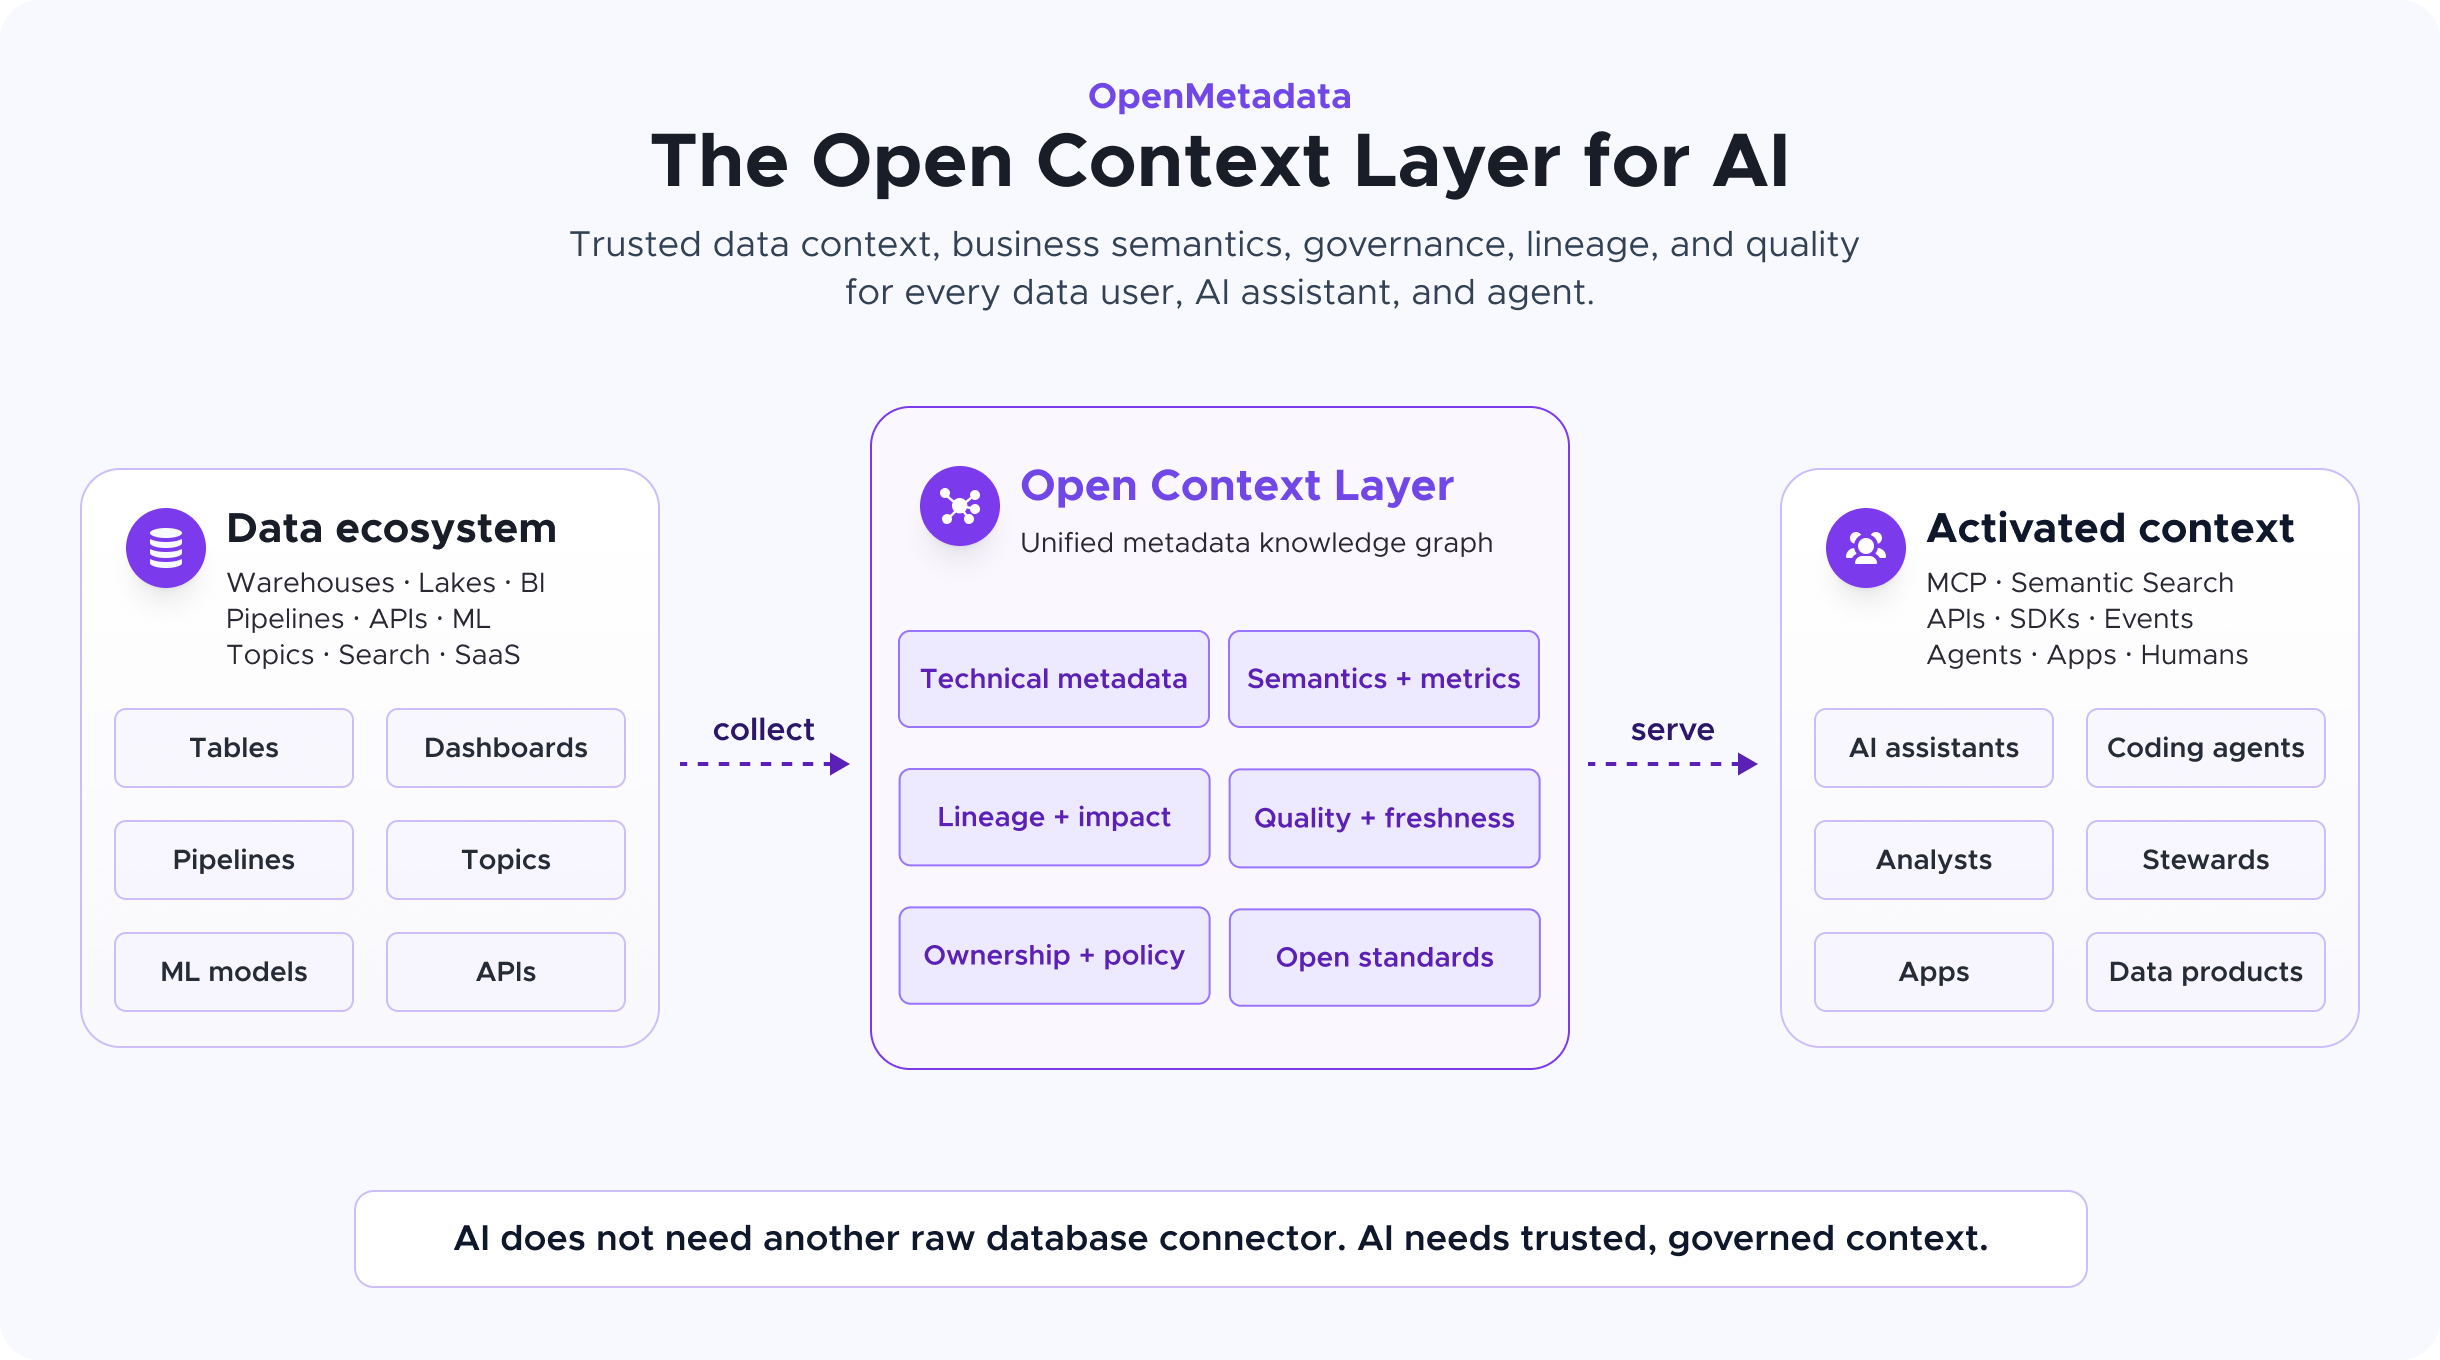
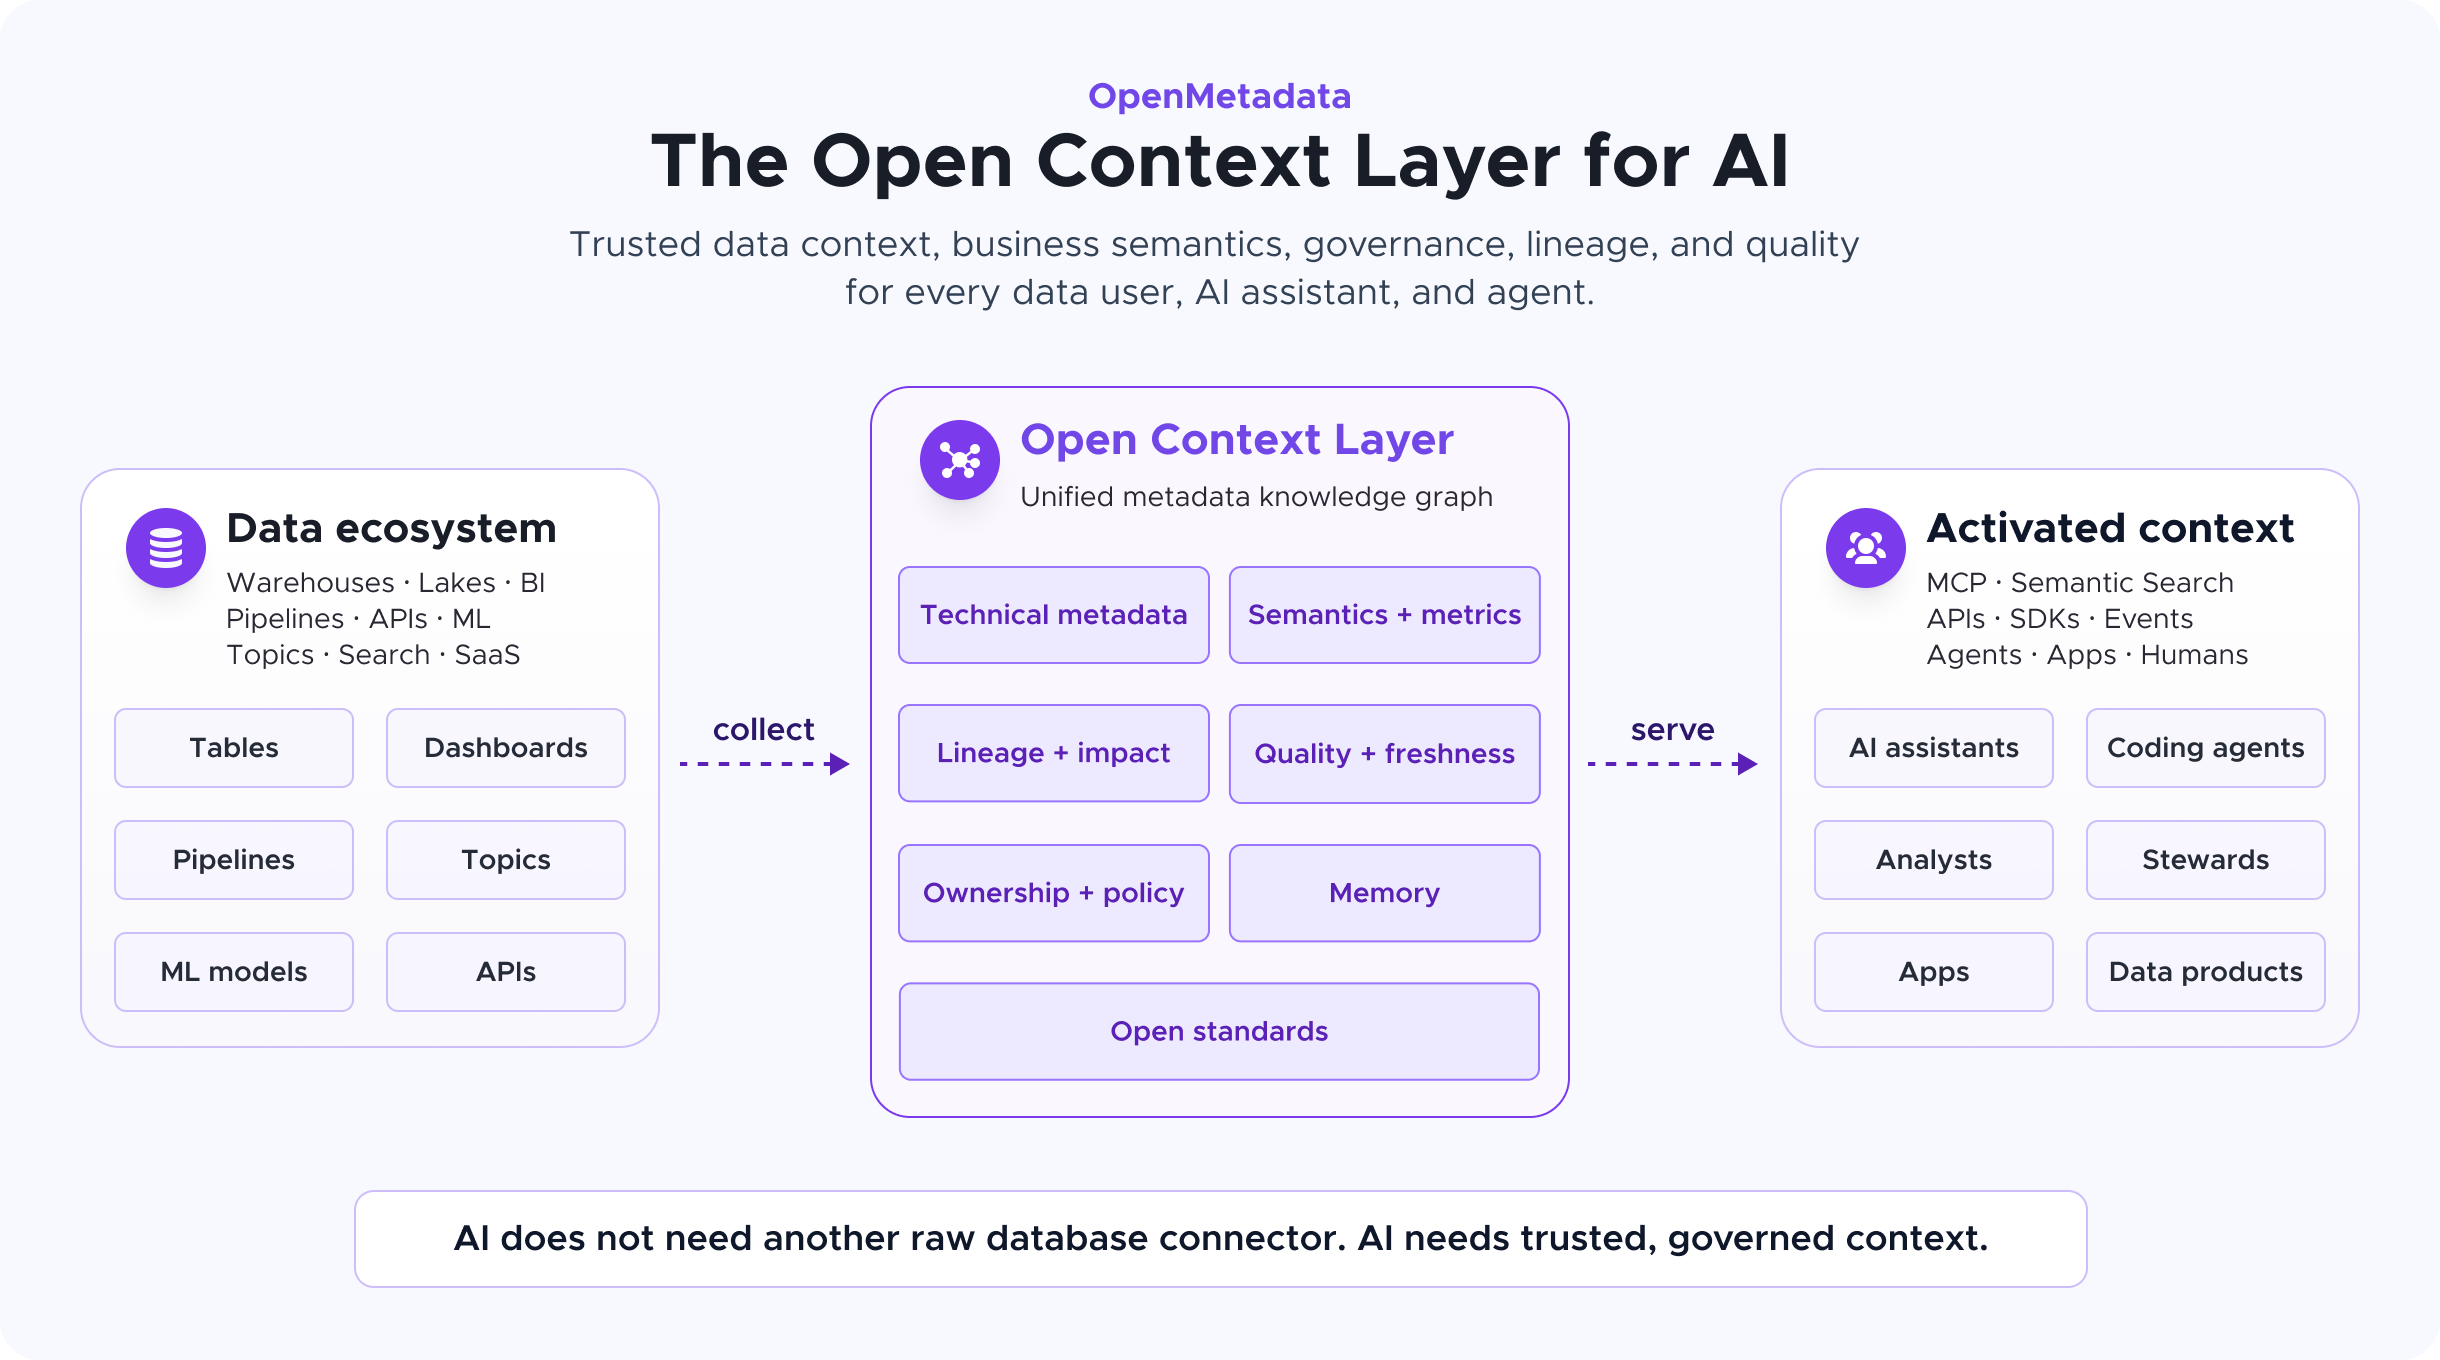
Address the feedback

Changed region(s): [[0.3738, 0.3088, 0.623, 0.8029]]

diff --git a/README.md b/README.md
@@ -4,15 +4,17 @@
 
 ## The Open Context Layer for AI
 
-OpenMetadata is the open platform for building trusted data context and business semantics for humans, AI assistants, and agents.
+**The largest and fastest-growing open-source project for AI context, data cataloging, and metadata management.**
 
-OpenMetadata connects technical metadata, data quality signals, lineage, column-level lineage, ownership, usage, policies, conversations, glossaries, classifications, metrics, domains, and data products into a unified metadata knowledge graph. With 120+ connectors, open metadata standards, semantic search, APIs, SDKs, and an MCP server, OpenMetadata gives every user and AI system the governed context it needs to discover, understand, trust, and use data.
+OpenMetadata is the open platform for trusted data context, organizational memory, and business semantics for every data user, AI assistant, and agent.
 
-**AI does not need another raw database connector. AI needs context.**
+OpenMetadata connects technical metadata, data quality signals, lineage, column-level lineage, ownership, usage, policies, conversations, memories, glossaries, classifications, metrics, domains, data contracts, and data products into a unified metadata knowledge graph. With **130+ connectors**, open metadata standards, semantic search, APIs, SDKs, and an MCP server, OpenMetadata gives every user and AI system the governed context it needs to discover, understand, trust, remember, and use data.
 
-![OpenMetadata: The Open Context Layer for AI](docs/assets/open-context-layer-hero.png)
+**AI does not need another raw database connector. AI needs context + memory.**
 
-OpenMetadata provides that context:
+![OpenMetadata: The Open Context Layer for AI](docs/assets/open-context-layer-hero-memory.png)
+
+OpenMetadata provides the context AI needs to know:
 
 - what data exists
 - what it means
@@ -20,36 +22,40 @@ OpenMetadata provides that context:
 - how it is used
 - where it came from
 - where it flows
-- whether it is fresh, tested, and trusted
-- which business concepts, classifications, glossary terms, policies, and data products apply
+- whether it is fresh, tested, certified, and trusted
+- which business concepts, classifications, glossary terms, policies, contracts, and data products apply
 - what downstream dashboards, pipelines, metrics, ML models, and applications depend on it
+- what conversations, decisions, assumptions, and memory nuggets have already been captured about it
 
 ---
 
 ## Why OpenMetadata for AI?
 
-AI systems need more than data access. They need governed context, business meaning, trust signals, lineage, usage, ownership, and operational awareness.
+AI systems need more than data access. They need governed context, business meaning, trust signals, lineage, usage, ownership, standards, and organizational memory.
 
-A direct connection to a warehouse, lake, dashboard, or pipeline exposes raw structures. It does not tell an AI assistant what the data means, whether it is certified, who owns it, which policies apply, or what breaks if it changes.
+A direct connection to a warehouse, lake, dashboard, or pipeline exposes raw structures. It does not tell an AI assistant what the data means, whether it is certified, who owns it, which policies apply, what contract governs it, what breaks if it changes, or what the organization has already learned about it.
 
 OpenMetadata is the open context layer that gives every data user and AI agent the full picture of enterprise data.
 
-OpenMetadata brings together four capabilities:
+OpenMetadata brings together five capabilities:
 
 1. **Context** — technical, operational, trust, usage, and lineage metadata from across the data ecosystem.
-2. **Semantics** — business meaning through glossaries, metrics, classifications, domains, policies, and ontologies.
-3. **Knowledge Graph** — relationships connecting assets, columns, people, teams, quality, lineage, policies, and business concepts.
-4. **Activation** — MCP, Semantic Search, APIs, SDKs, events, and workflows that make context usable by AI assistants, agents, applications, and humans.
+2. **Semantics** — business meaning through glossaries, metrics, classifications, domains, policies, ontologies, and data products.
+3. **Knowledge Graph** — relationships connecting assets, columns, people, teams, quality, lineage, policies, memories, contracts, and business concepts.
+4. **Memory** — conversations, AI threads, decisions, assumptions, runbooks, remediation notes, and reusable memory nuggets that preserve tribal knowledge.
+5. **Activation** — MCP, Semantic Search, APIs, SDKs, events, and workflows that make context usable by AI assistants, agents, applications, and humans.
 
 With OpenMetadata, users and AI agents can answer:
 
 - What does this metric mean and how is it calculated?
 - Which datasets power this dashboard?
 - Who owns this data product?
+- Which data contract applies?
 - Is this dataset fresh, tested, certified, and trusted?
 - Which downstream dashboards, pipelines, or ML models are affected by this column change?
 - Which columns contain sensitive customer information?
-- Which glossary terms, policies, and business concepts apply?
+- Which glossary terms, policies, standards, and business concepts apply?
+- What decisions, assumptions, incidents, or conversations have already been captured about this asset?
 
 ---
 
@@ -61,53 +67,86 @@ OpenMetadata collects and connects the context AI needs to reason safely over en
 | --- | --- | --- |
 | **Technical metadata** | Databases, schemas, tables, columns, topics, dashboards, charts, pipelines, APIs, search indexes, ML models, storage assets, data types, constraints, descriptions, joins, sample queries, service metadata, owners, teams, usage, domains, and data products | Helps AI discover what exists and understand how assets are structured |
 | **Quality and trust** | Test cases, test suites, freshness checks, volume checks, null, uniqueness, distribution, custom tests, profiling results, observability signals, incidents, alerts, and quality history | Helps AI avoid treating every dataset as equally trustworthy |
-| **Lineage and impact** | Upstream and downstream lineage, table lineage, column-level lineage, dashboard lineage, pipeline lineage, metric lineage, ML model lineage, API and topic dependencies | Helps AI explain where data came from, where it flows, and what changes may break |
+| **Lineage and impact** | Upstream and downstream lineage, table lineage, column-level lineage, dashboard lineage, pipeline lineage, metric lineage, ML model lineage, API and topic dependencies, and OpenLineage events | Helps AI explain where data came from, where it flows, and what changes may break |
 | **Semantics** | Glossaries, business terms, synonyms, related terms, metrics, KPIs, classifications, tags, domains, data products, policies, personas, lifecycle states, and ontologies | Helps AI map technical names to business meaning |
-| **Governance** | Owners, stewards, teams, policies, roles, classifications, access context, certification, review workflows, and lifecycle states | Helps AI act with policy-aware context |
-| **Collaboration** | Conversations, tasks, announcements, documentation workflows, ownership workflows, and shared stewardship | Helps teams keep context current and explainable |
+| **Governance** | Owners, stewards, teams, policies, roles, classifications, access context, certification, review workflows, lifecycle states, and data contracts | Helps AI act with policy-aware context |
+| **Memory and tribal knowledge** | Conversations, AI threads, decisions, assumptions, runbooks, remediation notes, incident learnings, and reusable memory nuggets attached to assets, users, teams, data products, and agent workflows | Helps humans and agents inherit what the organization already learned instead of rediscovering it in every conversation |
+| **Standards and interoperability** | DCAT, DPROD, PROV-O, OpenLineage, ODCS, RDF/OWL, JSON-LD, SHACL, JSON Schema, APIs, events, and metadata schemas | Helps context move across tools, agents, catalogs, contracts, and knowledge graphs |
 
 ---
 
-## How OpenMetadata Works
+## Architecture: Context + Memory Graph
 
-![How OpenMetadata Works](docs/assets/open-context-layer-architecture.png)
+![How OpenMetadata Works](docs/assets/open-context-layer-architecture-memory.svg)
 
 OpenMetadata is built around an open, schema-first metadata graph.
 
-1. **Collect** metadata from warehouses, lakes, BI tools, pipelines, ML platforms, messaging systems, storage systems, APIs, search systems, SaaS applications, and metadata systems.
-2. **Connect** technical metadata, quality signals, lineage, ownership, usage, policies, conversations, semantics, domains, and data products into one graph.
-3. **Govern** context with open standards, classifications, policies, roles, data quality, review workflows, and stewardship.
-4. **Activate** that context through Semantic Search, MCP, APIs, SDKs, events, webhooks, metadata applications, and AI workflows.
+1. **Collect** metadata from warehouses, lakes, BI tools, pipelines, ML platforms, messaging systems, storage systems, APIs, search systems, SaaS applications, metadata systems, documents, conversations, and agent workflows through **130+ connectors**, ingestion APIs, events, and SDKs.
+2. **Normalize** metadata with open schemas and standards so every asset, relationship, policy, contract, lineage event, and memory can be represented consistently.
+3. **Connect** technical metadata, quality signals, lineage, ownership, usage, policies, conversations, memories, semantics, domains, contracts, and data products into one graph.
+4. **Preserve Memory** by turning conversations, AI threads, decisions, assumptions, runbooks, and remediation notes into reusable governed memory nuggets tied to data assets and business context.
+5. **Govern** context with open standards, classifications, policies, roles, data quality, review workflows, data contracts, and stewardship.
+6. **Activate** that context through Semantic Search, MCP, APIs, SDKs, events, webhooks, metadata applications, and AI workflows.
+
+Memory is part of the architecture, not a side channel. It lets engineers use APIs, SDKs, MCP, or AI workflows to preserve conversational context and convert tribal knowledge into reusable organizational knowledge.
 
 ---
 
-## Context Graph and Semantics
+## Context Graph, Semantics, and Memory
 
-![OpenMetadata Context Graph](docs/assets/open-context-layer-graph.png)
+![OpenMetadata Context Graph](docs/assets/context-graph-with-memory.png)
 
-The OpenMetadata graph does not only store data assets. It stores the relationships between assets, columns, owners, teams, policies, quality tests, lineage, classifications, glossary terms, metrics, domains, and data products.
+The OpenMetadata graph does not only store data assets. It stores the relationships between assets, columns, owners, teams, policies, quality tests, lineage, classifications, glossary terms, metrics, domains, data contracts, data products, conversations, and memory nuggets.
 
 Example relationships:
 
 ```text
-Table           ──hasColumn───────> Column
-Column          ──classifiedAs────> PII
-Column          ──represents──────> Customer Identifier
-Table           ──ownedBy────────> Data Engineering Team
-Table           ──partOf─────────> Customer 360 Data Product
-Dashboard       ──dependsOn──────> Table
-Metric          ──definedBy──────> Glossary Term
-Pipeline        ──produces───────> Table
-Column          ──flowsTo────────> Column
-Test Case       ──validates──────> Table
-Policy          ──governs────────> Classification
+Table               ──hasColumn────────────> Column
+Column              ──classifiedAs─────────> PII
+Column              ──represents───────────> Customer Identifier
+Table               ──ownedBy─────────────> Data Engineering Team
+Table               ──partOf──────────────> Customer 360 Data Product
+Dashboard           ──dependsOn───────────> Table
+Metric              ──definedBy───────────> Glossary Term
+Pipeline            ──produces────────────> Table
+Column              ──flowsTo─────────────> Column
+Test Case           ──validates───────────> Table
+Policy              ──governs─────────────> Classification
+Data Contract       ──appliesTo───────────> Table
+OpenLineage Event   ──updatesLineageFor───> Pipeline
+Agent Conversation  ──capturedAs──────────> Memory Nugget
+Memory Nugget       ──informs─────────────> Data Product
+Memory Nugget       ──documentsDecisionFor> Metric
+Memory Nugget       ──attachedTo──────────> Table / Column / Topic / Dashboard / Pipeline / API
 ```
 
-This graph gives AI systems the relationships and meaning they need to reason across the data estate.
+This graph gives AI systems the relationships, meaning, memory, and governance they need to reason across the data estate.
 
 ---
 
-## MCP, Semantic Search, APIs, and AI SDK
+## Memories: Organizational Context for Humans and Agents
+
+![Memory Primitives](docs/assets/memory-primitives.svg)
+
+Memories preserve the important context that usually disappears inside chats, tickets, meetings, notebooks, and AI agent threads.
+
+A memory is an open, governed OpenMetadata entity that can be tied to data assets, users, teams, threads, domains, data products, metrics, policies, incidents, and workflows. Engineers can capture and retrieve memories through APIs, SDKs, MCP, chat, or AI applications.
+
+Use memories to preserve:
+
+- why a metric changed
+- why a column was renamed
+- what assumption was used in an analysis
+- which remediation fixed a data quality issue
+- which dashboard or data product a decision applies to
+- what an AI agent learned while investigating an incident
+- what a domain expert explained in a conversation
+
+Memories unlock tribal knowledge by making it reusable, governed, searchable, and available to every human, assistant, and agent that touches your data.
+
+---
+
+## MCP, Semantic Search, APIs, AI SDK, and Memory
 
 OpenMetadata makes context actionable through AI- and developer-friendly interfaces.
 
@@ -121,6 +160,8 @@ AI assistants can use OpenMetadata MCP to:
 - run semantic search
 - retrieve entity details
 - inspect lineage
+- understand data contracts and policy context
+- retrieve or preserve memory nuggets
 - update descriptions, tags, owners, and other metadata
 - create glossary terms and lineage
 - list and create data quality tests
@@ -133,16 +174,16 @@ Get started: [OpenMetadata MCP Server Documentation](https://docs.open-metadata.
 Semantic Search lets users and AI assistants find data assets by meaning, not only exact keywords.
 
 ```text
-Find tables related to customer purchase behavior and transaction history.
+Find trusted customer purchase datasets with known data quality issues and recent remediation notes.
 ```
 
-OpenMetadata can surface conceptually related assets even when names differ across domains, tools, and teams.
+OpenMetadata can surface conceptually related assets, metrics, glossary terms, data products, memory nuggets, and governance context even when names differ across domains, tools, and teams.
 
 ### APIs, SDKs, Events, and Webhooks
 
 OpenMetadata exposes APIs, SDKs, events, and webhooks so teams can ingest, update, search, subscribe to, and automate metadata across their ecosystem.
 
-Developers can use the AI SDK to build custom AI applications that use OpenMetadata context programmatically.
+Developers can use the AI SDK to build custom AI applications that use OpenMetadata context and memory programmatically.
 
 ---
 
@@ -152,23 +193,26 @@ Developers can use the AI SDK to build custom AI applications that use OpenMetad
 Ask natural-language questions over the metadata graph and find relevant assets even when names and keywords do not match exactly.
 
 ### Trusted AI Assistants
-Ground AI responses in governed metadata: owners, descriptions, glossary terms, classifications, quality, freshness, usage, and lineage.
+Ground AI responses in governed metadata: owners, descriptions, glossary terms, classifications, quality, freshness, usage, lineage, policies, contracts, and memory.
+
+### Agent Memory and Tribal Knowledge
+Capture conversations, decisions, assumptions, runbooks, and agent learnings as governed memory nuggets that can be reused by every data user and AI agent.
 
 ### Impact Analysis Agents
-Ask what will break if a table, column, pipeline, dashboard, metric, ML feature, or data product changes.
+Ask what will break if a table, column, pipeline, dashboard, metric, ML feature, contract, or data product changes.
 
 ### Governance Automation
-Use agents to suggest descriptions, assign glossary terms, identify sensitive data, propose ownership, and manage stewardship workflows.
+Use agents to suggest descriptions, assign glossary terms, identify sensitive data, propose ownership, enforce contract context, and manage stewardship workflows.
 
 ### Data Quality Automation
-Use AI workflows to create tests, summarize failures, identify root causes, and recommend remediation steps.
+Use AI workflows to create tests, summarize failures, identify root causes, preserve remediation memory, and recommend next actions.
 
 ### Developer and Coding Agent Workflows
-Connect coding agents to OpenMetadata so they understand schemas, owners, lineage, business definitions, and quality expectations before generating SQL, dbt models, documentation, tests, migration plans, or impact analysis.
+Connect coding agents to OpenMetadata so they understand schemas, owners, lineage, business definitions, quality expectations, contracts, and memory before generating SQL, dbt models, documentation, tests, migration plans, or impact analysis.
 
 ---
 
-## OpenMetadata Standards
+## Open Standards and Interoperability
 
 OpenMetadata is built on open metadata standards.
 
@@ -180,9 +224,20 @@ It provides:
 - RDF/OWL ontologies for semantic web, linked data, and knowledge graph use cases
 - SHACL shapes for validation
 - JSON-LD contexts for semantic interoperability
-- standards for governance, lineage, quality, observability, teams, users, roles, policies, and events
+- standards for governance, lineage, quality, observability, teams, users, roles, policies, events, contracts, and data products
 
-These standards make OpenMetadata a foundation for interoperable semantic metadata, linked data, and enterprise knowledge graphs.
+OpenMetadata supports and aligns with the standards that matter for AI context and data ecosystems:
+
+| Standard | How OpenMetadata uses it |
+| --- | --- |
+| **DCAT / DPROD** | Represents catalog and data-product context in interoperable semantic models, including datasets, data services, distributions, domains, owners, input and output datasets, lifecycle state, purpose, and policies. |
+| **PROV-O** | Uses W3C provenance semantics for lineage, generated/derived data, agents, activities, ownership, and explainable context. |
+| **OpenLineage Support** | Accepts and connects OpenLineage-compatible lineage events so pipeline execution metadata can enrich the broader OpenMetadata graph. |
+| **ODCS Support** | Supports Open Data Contract Standard 3.1 for interoperable data contracts, contract import/export, schema expectations, quality rules, SLAs, support channels, roles, and producer-consumer agreements. |
+| **RDF/OWL, JSON-LD, SHACL** | Makes metadata graph-friendly, semantically interoperable, and validatable for linked data, knowledge graph, and AI use cases. |
+| **JSON Schema, APIs, Events** | Keeps metadata portable, automation-friendly, and extensible across tools, agents, and custom applications. |
+
+These standards make OpenMetadata a foundation for interoperable semantic metadata, linked data, data products, data contracts, lineage, provenance, and enterprise knowledge graphs.
 
 ---
 
@@ -190,12 +245,14 @@ These standards make OpenMetadata a foundation for interoperable semantic metada
 
 | Capability | Includes |
 | --- | --- |
+| **AI Context and Memory** | memory nuggets, conversations, agent threads, decisions, assumptions, remediation notes, runbooks, context retrieval, and governed agent memory |
 | **Discovery and Understanding** | asset search, semantic search, descriptions, sample data, usage, ownership, conversations, tasks, announcements |
 | **Governance and Semantics** | glossaries, classifications, tags, metrics, KPIs, domains, data products, policies, roles, certification, lifecycle states |
+| **Data Contracts and Standards** | ODCS 3.1 support, contract import/export, schema expectations, SLAs, terms of service, semantic relationships, data product context, DCAT/DPROD, PROV-O, RDF/OWL, JSON-LD, SHACL |
 | **Data Quality and Observability** | tests, profiling, freshness, volume, null, uniqueness, distribution checks, alerts, incidents, root-cause workflows |
-| **Lineage and Impact Analysis** | table lineage, column-level lineage, dashboard lineage, pipeline lineage, metric lineage, ML model lineage, impact analysis |
+| **Lineage and Impact Analysis** | table lineage, column-level lineage, dashboard lineage, pipeline lineage, metric lineage, ML model lineage, OpenLineage support, impact analysis |
 | **Security and Access Control** | authentication, authorization, roles, policies, SSO, bot tokens, user tokens, MCP authentication, governed metadata actions |
-| **Extensibility and Automation** | APIs, SDKs, webhooks, events, applications, ingestion framework, custom connectors, custom properties, MCP tools, AI SDK workflows |
+| **Extensibility and Automation** | 130+ connectors, APIs, SDKs, webhooks, events, applications, ingestion framework, custom connectors, custom properties, MCP tools, AI SDK workflows |
 
 ---
 
@@ -203,12 +260,13 @@ These standards make OpenMetadata a foundation for interoperable semantic metada
 
 1. **Try OpenMetadata**: [OpenMetadata Sandbox](https://sandbox.open-metadata.org)
 2. **Install OpenMetadata**: [Quickstart Guide](https://docs.open-metadata.org/latest/quick-start)
-3. **Ingest Metadata** from a warehouse, BI tool, pipeline system, data quality tool, or lineage source.
-4. **Build Context** with descriptions, owners, teams, domains, data products, quality tests, freshness, usage, and lineage.
-5. **Add Semantics** with glossaries, classifications, tags, metrics, KPIs, policies, domains, and data products.
-6. **Enable Semantic Search** so users and AI assistants can search by meaning.
-7. **Connect an MCP Client** to give AI assistants and agents governed access to OpenMetadata context.
-8. **Build AI Applications** using OpenMetadata APIs, SDKs, MCP tools, events, and AI SDK workflows.
+3. **Ingest Metadata** from a warehouse, BI tool, pipeline system, data quality tool, lineage source, contract source, or memory-producing workflow.
+4. **Build Context** with descriptions, owners, teams, domains, data products, quality tests, freshness, usage, lineage, and data contracts.
+5. **Add Semantics** with glossaries, classifications, tags, metrics, KPIs, policies, domains, DCAT/DPROD-aligned data products, and PROV-O lineage context.
+6. **Capture Memory** from conversations, AI threads, incidents, remediation notes, assumptions, and decisions.
+7. **Enable Semantic Search** so users and AI assistants can search by meaning.
+8. **Connect an MCP Client** to give AI assistants and agents governed access to OpenMetadata context and memory.
+9. **Build AI Applications** using OpenMetadata APIs, SDKs, MCP tools, events, and AI SDK workflows.
 
 ---
 
@@ -216,6 +274,7 @@ These standards make OpenMetadata a foundation for interoperable semantic metada
 
 - Documentation: [docs.open-metadata.org](https://docs.open-metadata.org/)
 - MCP Server: [OpenMetadata MCP Documentation](https://docs.open-metadata.org/latest/how-to-guides/mcp)
+- OpenLineage Connector: [OpenMetadata OpenLineage Documentation](https://docs.open-metadata.org/latest/connectors/pipeline/openlineage)
 - OpenMetadata Standards: [openmetadatastandards.org](https://openmetadatastandards.org/)
 - Website: [open-metadata.org](https://open-metadata.org/)
 - Slack Community: [slack.open-metadata.org](https://slack.open-metadata.org/)
@@ -225,7 +284,7 @@ These standards make OpenMetadata a foundation for interoperable semantic metada
 
 ## Open Source and Enterprise AI
 
-OpenMetadata is the open-source foundation for metadata, context, semantics, governance, quality, lineage, APIs, MCP, and AI SDK workflows.
+OpenMetadata is the open-source foundation for AI context, metadata, organizational memory, semantics, governance, quality, lineage, data contracts, open standards, APIs, MCP, and AI SDK workflows.
 
 For managed enterprise capabilities, AI agents, automation, AI Studio, enterprise MCP workflows, commercial support, and managed operations, see Collate:
 
@@ -236,15 +295,13 @@ For managed enterprise capabilities, AI agents, automation, AI Studio, enterpris
 
 ## Contributing
 
-We welcome contributions from the community. You can help improve metadata schemas and standards, add connectors, improve ingestion workflows, enhance MCP tools, improve semantic search, add documentation, fix bugs, and improve the user experience.
+We welcome contributions from the community. You can help improve metadata schemas and standards, add connectors, improve ingestion workflows, enhance MCP tools, improve semantic search, add memory workflows, add documentation, fix bugs, and improve the user experience.
 
 See the contribution guide in this repository to get started.
 
 - [How To Contribute](https://docs.open-metadata.org/v1.12.x/developers/contribute)
 - [Development Environment Setup](https://docs.open-metadata.org/v1.12.x/developers/contribute/development-environment-setup)
 - [Build Code & Run Tests](https://docs.open-metadata.org/v1.12.x/developers/contribute/build-code-and-run-tests)
-
-
 
 ---
 